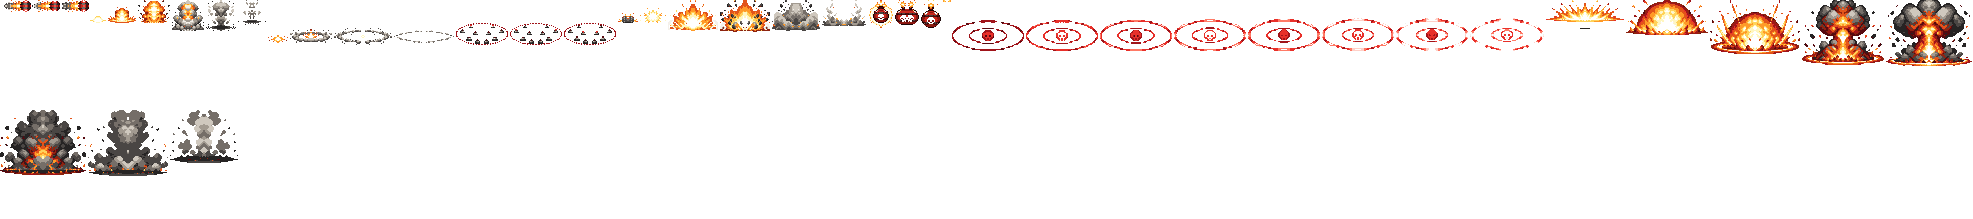
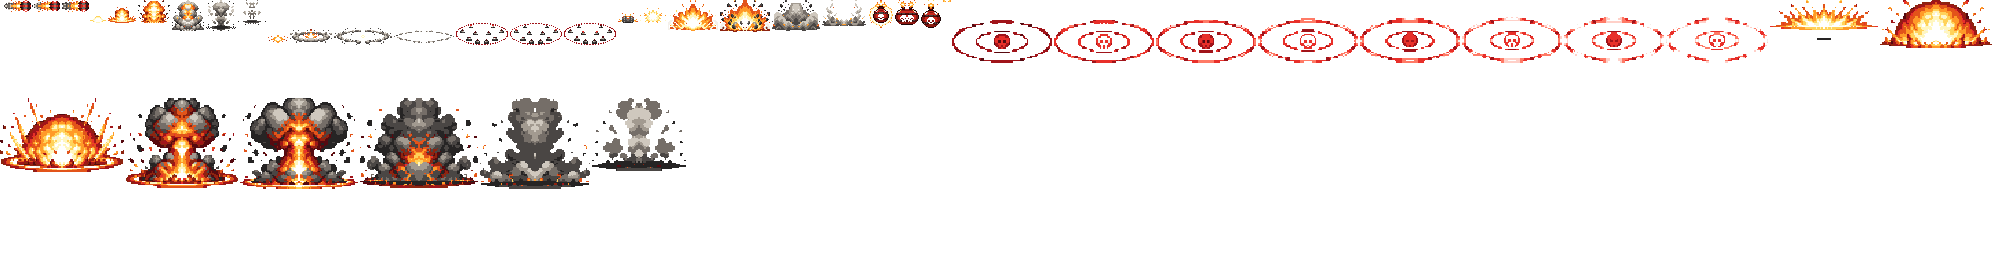
league_ult_press 0.4.4: the stand-still check reaches as far as a held hero's range buffs (Kayle's Ascension: 52500 / 62500 instead of her melee 35000 - she stood at her ascended reach without attacking); Ziggs's R 40000 -> 55000 radius, centre 18000 -> 25000, its ring and blast drawn as big (the us

Changed region(s): [[0.0, 0.0, 1.0, 0.3014], [0.0, 0.3836, 0.3401, 0.8219]]

diff --git a/addons/league_ult_press/src/lib.rs b/addons/league_ult_press/src/lib.rs
@@ -412,6 +412,19 @@ pub fn is_holder(name: &str) -> bool {
 }
 
 /// 被停住时打多远内的敌方英雄、盯住以后走出多远就不追：近战 `HOLD_REACH` / `HOLD_KEEP`；远程是自己的普攻距离、再加 `RANGED_KEEP`。
+/// [`hold_reach`] with the attack range her buffs add (`range`: league_kayle's Ascension +27500 at rank 5, +10000 at
+/// rank 12): the AI stands her at the stretched reach, and with the table's melee 25000 she was never seen held
+/// there - the user, 2026-10-21: 「凯尔…攻击英雄判断会占在升阶范围外毫无作用只用技能拉扯，只有当敌方到达默认攻击范围才
+/// 会进行攻击」.
+pub fn hold_reach_with(name: &str, extra: f64) -> (f64, f64) {
+    if extra <= 0.0 {
+        return hold_reach(name);
+    }
+    let r = attack_range(name).unwrap_or(0) as f64 + extra;
+    let base = hold_reach(name);
+    (base.0.max(r), base.1.max(r + RANGED_KEEP))
+}
+
 pub fn hold_reach(name: &str) -> (f64, f64) {
     match attack_range(name) {
         Some(r) if r > MELEE_RANGE => (r as f64, r as f64 + RANGED_KEEP),
@@ -929,6 +942,11 @@ const BUSY: [CcKindV1; 2] = [CcKindV1::Animation, CcKindV1::ForceMove];
 
 fn busy(e: &StableEntity<'_, '_>) -> bool {
     (0..e.cc_count()).any(|i| e.cc_at(i).is_some_and(|c| BUSY.iter().any(|k| k.code() == c.kind)))
+}
+
+/// The attack range her buffs add.
+fn buff_range(e: &StableEntity<'_, '_>) -> f64 {
+    (0..e.buff_count()).filter_map(|i| e.buff_at(i)).map(|b| b.range as f64).sum()
 }
 
 fn has_buff(e: &StableEntity<'_, '_>, name: &str) -> bool {
@@ -1485,7 +1503,7 @@ impl UltPress {
                 .collect();
             if holder && atk_ready {
                 let engaged = self.engage.filter(|&(_, until)| tick <= until).map(|(t, _)| t);
-                let reach = hold_reach(&name);
+                let reach = hold_reach_with(&name, buff_range(&me));
                 // walking with an enemy champion in reach and not away from him (Kha'Zix follows and never attacks)
                 let near = nearest_in(my_at, reach.0, &enemies).and_then(|t| enemies.iter().find(|u| u.id == t)).map(|u| u.at);
                 let walking = match (base, near) {
@@ -1710,6 +1728,13 @@ mod tests {
 
     fn u(id: usize, x: f64, y: f64, hp: f64) -> Unit {
         Unit { id, at: (x, y), hp }
+    }
+
+    #[test]
+    fn the_hold_reach_follows_her_range_buffs() {
+        assert_eq!(hold_reach_with(KAYLE, 0.0), hold_reach(KAYLE));
+        assert_eq!(hold_reach_with(KAYLE, 27_500.0), (52_500.0, 62_500.0));
+        assert_eq!(hold_reach_with(KAYLE, 37_500.0), (62_500.0, 72_500.0));
     }
 
     #[test]

diff --git a/tools/art/import_ziggs_fx.py b/tools/art/import_ziggs_fx.py
@@ -97,6 +97,22 @@ def cells(name, meta):
     return out
 
 
+# R's ring and blast were drawn for a 40000 radius (84 px across); the user then 「炸弹人的大招范围要调大点吧」 (2026-10-21):
+# r_r 55000 (League's 525 and the target's body), so both are drawn r_r / 40000 times as big - nearest, each half
+# mirrored from the left so they stay symmetric, their ground rows grown alike
+GROW = {"r_warn": P["r_r"] / 40000, "r_boom": P["r_r"] / 40000}
+
+
+def grow(cell, k):
+    h, w = cell.shape[:2]
+    W = int(round(w * k)) | (w & 1)              # the same parity: the centre column stays a column
+    H = int(round(h * k))
+    big = np.asarray(Image.fromarray(cell).resize((W, H), Image.NEAREST)).copy()
+    half = W // 2
+    big[:, W - half:] = big[:, :half][:, ::-1]
+    return big
+
+
 def anchor(cell, kind):
     h, w = cell.shape[:2]
     if kind == "core":
@@ -120,6 +136,10 @@ def main():
     tables = {"league_ziggs_fx": {}, "league_ziggs_big": {}}
     for name, (kind, frames, spots) in FX.items():
         cs = allc[name]
+        if name in GROW:
+            k = GROW[name]
+            cs = [grow(c, k) for c in cs]
+            kind = kind if kind == "core" else ("feet", int(round(kind[1] * k)))
         anc = anchor(cs[0], kind)
         out = []
         for k, ms in frames:

diff --git a/tools/kit/build_ziggs.py b/tools/kit/build_ziggs.py
@@ -82,7 +82,7 @@ P = {
     # R Mega Inferno Bomb (League: 5000 range, r 525 (centre 250), 300-700 +100% AP at the centre, 65% outside,
     # cd 120-70)
     "r_cd": 3600, "r_range": 220000, "r_arm": 600, "r_wait": 300, "r_dur": 36, "r_rel": 16, "r_travel": 70,
-    "r_r": 40000, "r_cr": 18000, "r_dmg": 250, "r_ratio": 85, "r_cdmg": 135, "r_cratio": 45,
+    "r_r": 55000, "r_cr": 25000, "r_dmg": 250, "r_ratio": 85, "r_cdmg": 135, "r_cratio": 45,
     "watch_p": 12,
     "vo_gap": 600,
     "native": 0,
